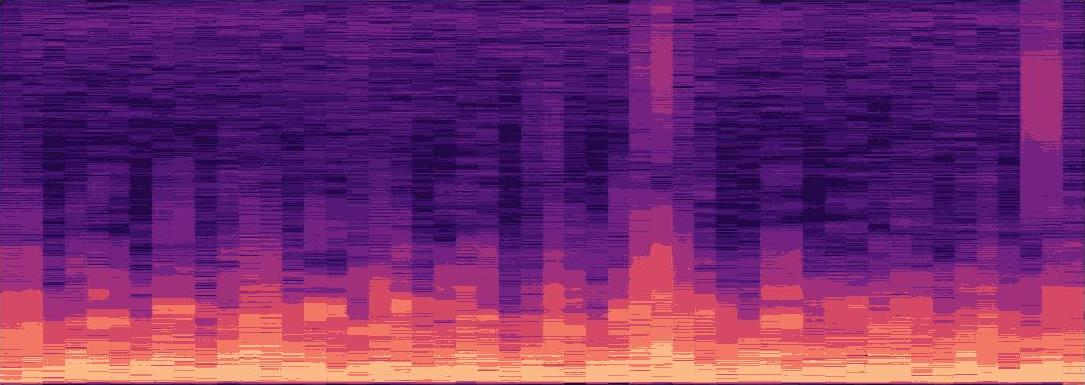
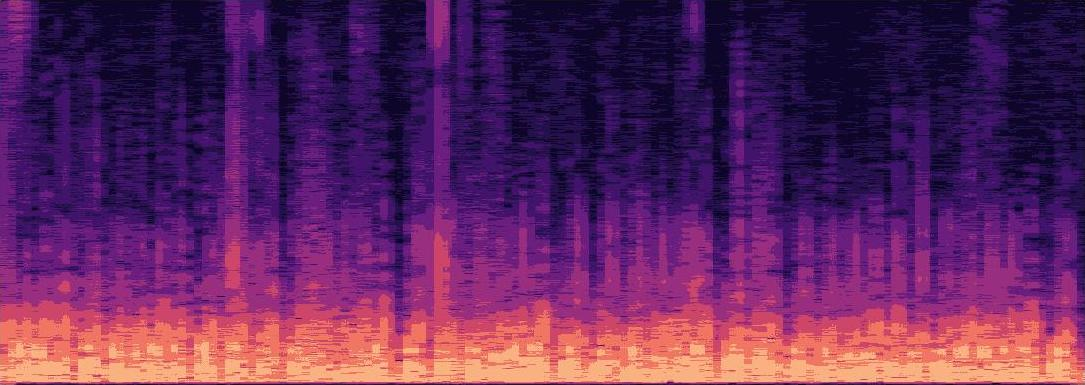
added model prediction function

diff --git a/app.py b/app.py
@@ -14,6 +14,7 @@ from PIL import Image
 from ECGworkflow import ecg_workflow
 from PCGworkflow import pcg_workflow
 from PCGSpect_workflow import pcg_spec_workflow
+from PCGSpec_Prediction import prediction_8_cluster
 
 # test msg updating 4th dec
 
@@ -90,6 +91,19 @@ with st.form(key='my_form2'):
     submit_button = st.form_submit_button(label='Predict!')
     try:
         pcg_spec_workflow(waveform_path)
+
+        # path = "./img-ui/spectrogram_sample.jpg" HAS THE IMAGE OF SPECTROGRAM - BEFORE CLUSTER
+        # path = "cluster_spec_img.jpg" HAS THE IMAGE OF 8 CLUSTERED K MEANS SPECTROGRAM 
+
+        pred_path = "cluster_spec_img.jpg"
+        val = prediction_8_cluster(pred_path)
+        # st.write("PREDICTION : "+str(val))
+        if(val == -1):
+            st.write("NORMAL")
+        elif(val == 1):
+            st.write("ABNORMAL")
+
+
     except ValueError:
         st.error('Please enter WAV File!')
 

diff --git a/PCGSpect_workflow.py b/PCGSpect_workflow.py
@@ -19,11 +19,14 @@ def pcg_spec_workflow(waveform_path):
     spec_img=Image.open("./img-ui/spectrogram_sample.jpg")
     st.image(spec_img,caption='Generated Spectrogram')
 
+    get_clusters(img_path, 4)
+    clus_spec_4 = Image.open("cluster_spec_img.jpg")
+    st.image(clus_spec_4, caption='4 Clusters of Spectrogram Generated')
 
-    get_clusters(img_path)
+
+    get_clusters(img_path, 8)
     clus_spec_8 = Image.open("cluster_spec_img.jpg")
     st.image(clus_spec_8, caption='8 Clusters of Spectrogram Generated')
-
 
 
 
@@ -49,8 +52,8 @@ def create_linearF_spec(AUDIOFILE):
     return v
     
 
-def get_clusters(FILE_NAME):
-    N = 8 # @ TEAM : Specify the number of clusters needed hereee 
+def get_clusters(FILE_NAME, N):
+    #N =  @ TEAM : Specify the number of clusters needed hereee 
 
     img = imread(FILE_NAME)/255
     #print("img size: ", img.shape)

diff --git a/PCGSpec_Prediction.py b/PCGSpec_Prediction.py
@@ -1,0 +1,24 @@
+# from keras.models import load_model
+#from tensorflow.keras.preprocessing import image
+
+# returns a compiled model
+# identical to the previous one
+
+
+
+def prediction_8_cluster(path):
+    # code for prediction
+
+    print("entered pcgspec_prediction file")
+    #img1 = image.load_img(path)
+    # model = load_model('my_model.h5')
+    # img_array = image.img_to_array(img)
+
+    # img_batch = np.expand_dims(img_array, axis=0)
+    # predval = model.predict(img1_batch)
+
+    predval = 1
+
+
+
+    return predval
